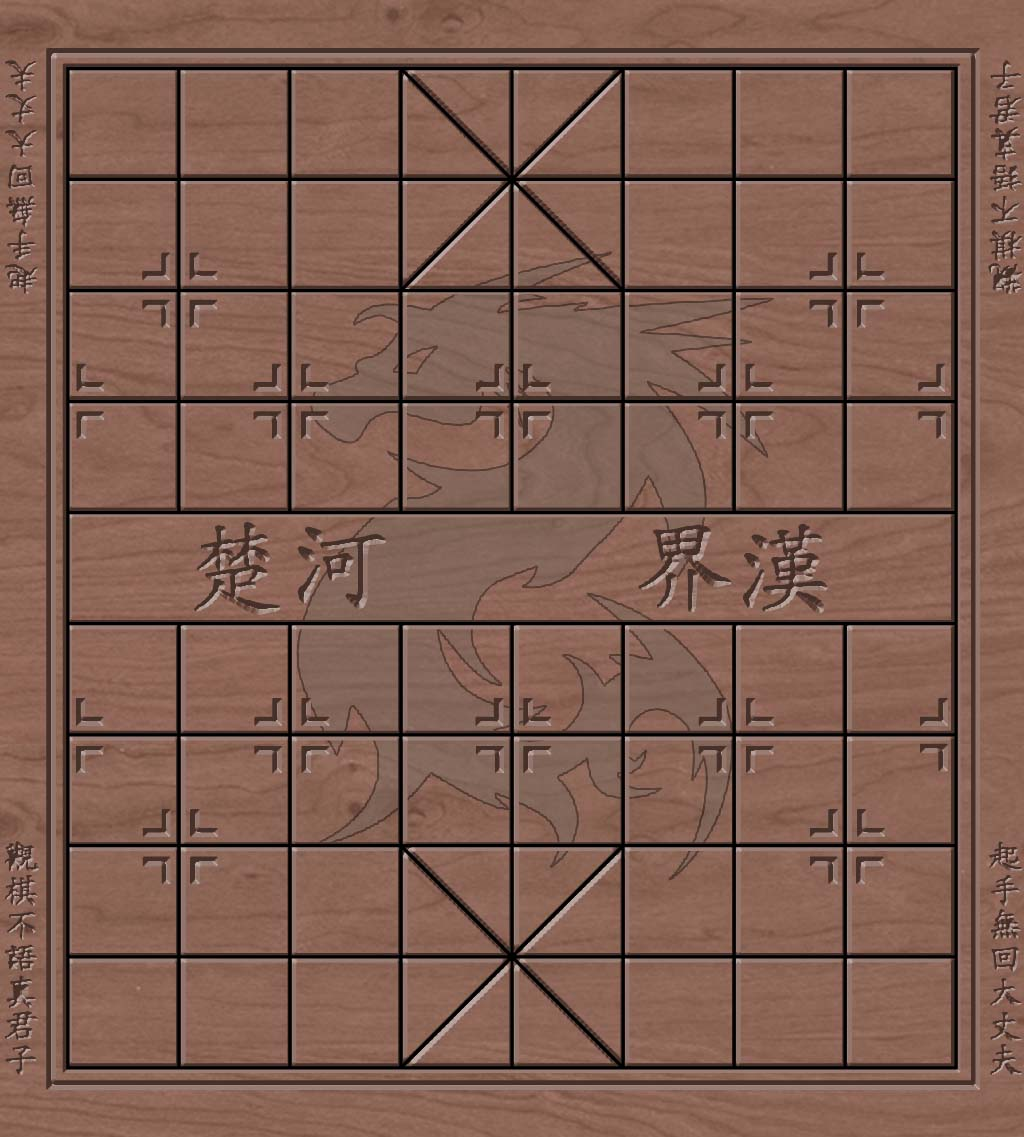
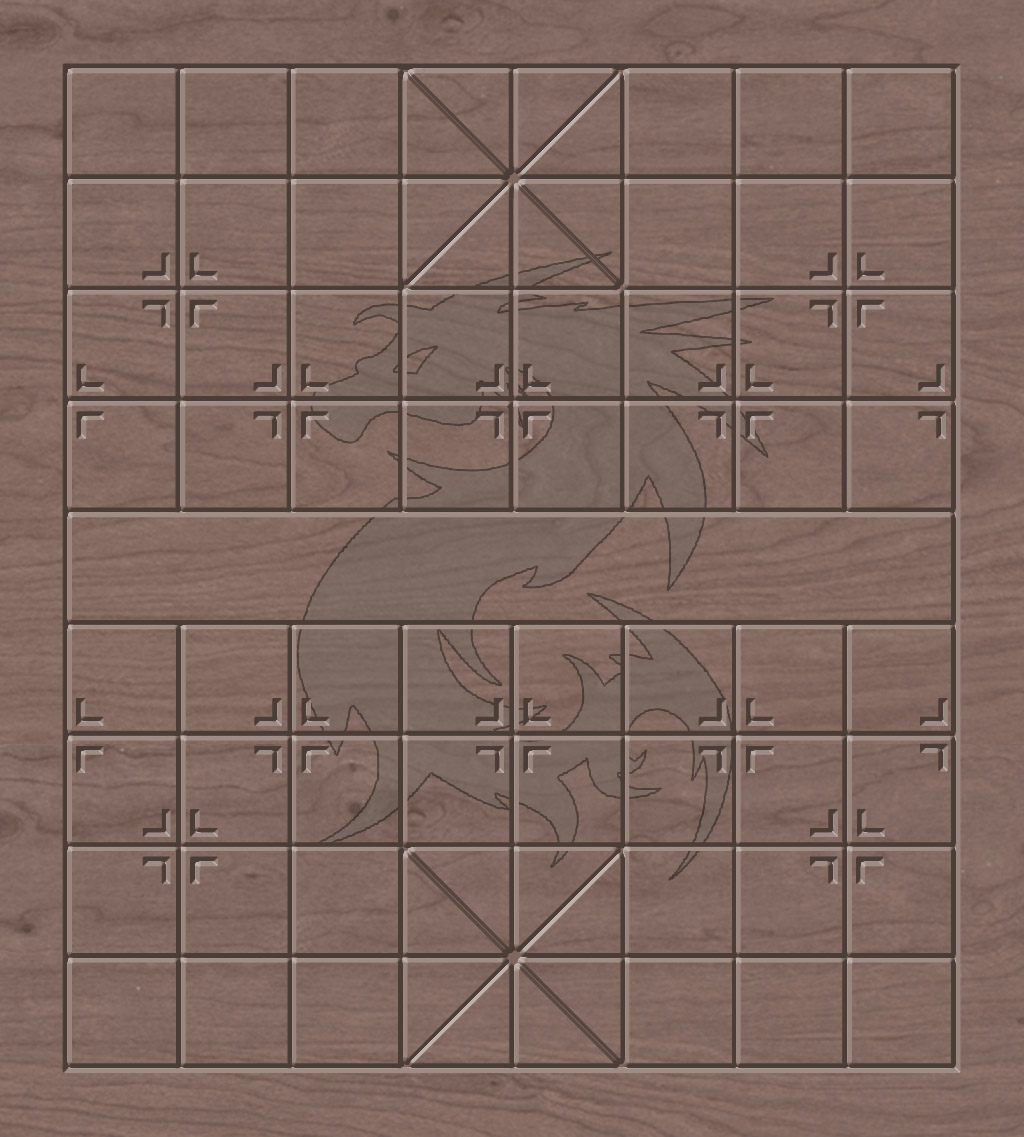
Cant stop
Añadido efecto de hover al pasar el raton
Añadidas sombras, bordes redondos y algunos skins ;)

Changed region(s): [[0.0, 0.0308, 1.0, 0.985], [0.4688, 0.6157, 0.5312, 0.6772], [0.4375, 0.0923, 0.4688, 0.1231]]

diff --git a/src/pages/Game.vue b/src/pages/Game.vue
@@ -2,8 +2,8 @@
     <div class="card">
         <div class="col-12 fondo m-auto board-width">
             <div v-for="(item, indexFil) in tablero.filas" :key="indexFil" class="flex">
-                <div v-for="(itemFila, indexCol) in item" :key="indexCol" v-on:click="tile(indexFil, indexCol, itemFila.pieza, itemFila.color)" class="h-3rem w-3rem sm:h-4rem sm:w-4rem md:h-5rem md:w-5rem border-500 border-1 flex-grow-1 flex align-items-center justify-content-center font-bold text-white">
-                    <img v-if="itemFila.pieza != ''" class="pieza" style="border-radius: 100%; box-shadow: 2px 2px 5px red;" :src="'images/pieces/set1/' + itemFila.pieza + itemFila.color + '.svg'">  
+                <div v-for="(itemFila, indexCol) in item" :key="indexCol" v-on:click="tile(indexFil, indexCol, itemFila.pieza, itemFila.color)" class="h-3rem w-3rem sm:h-4rem sm:w-4rem md:h-5rem md:w-5rem border-600 border-0 flex-grow-1 flex align-items-center justify-content-center font-bold text-white casilla">
+                    <img v-if="itemFila.pieza != ''" class="pieza" style="border-radius: 100%; box-shadow: 4px 4px 10px black;" :src="'images/pieces/set1/' + itemFila.pieza + itemFila.color + '.svg'">  
                 </div>
             </div>
         </div>
@@ -51,7 +51,15 @@ export default  {
     background-position: center center;
     background-size: 100% 100%;
     background-repeat:no-repeat;
-    background-image: url("/images/boards/wooden1.jpg");
+    background-image: url("/images/boards/wooden2.jpg");
+    border-radius: 2.2rem;
+    box-shadow: 4px 4px 10px black;
+}
+
+.casilla:hover {
+    background-color: #3f3fff2a;
+    cursor: pointer;
+    border-radius: 100%;
 }
 
 @media (min-width: 768px) {
